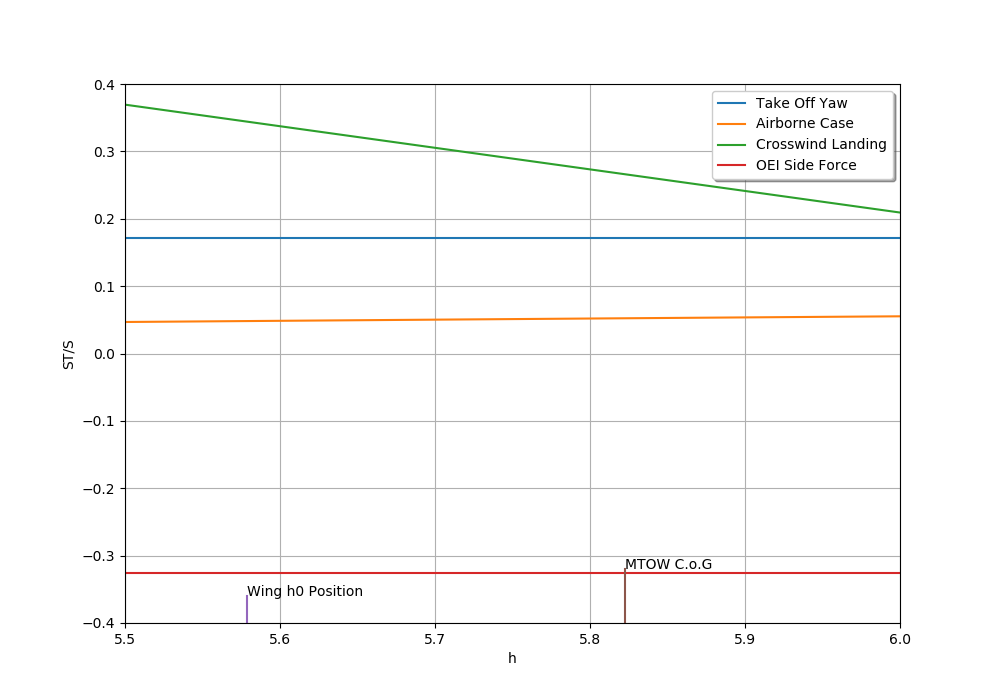
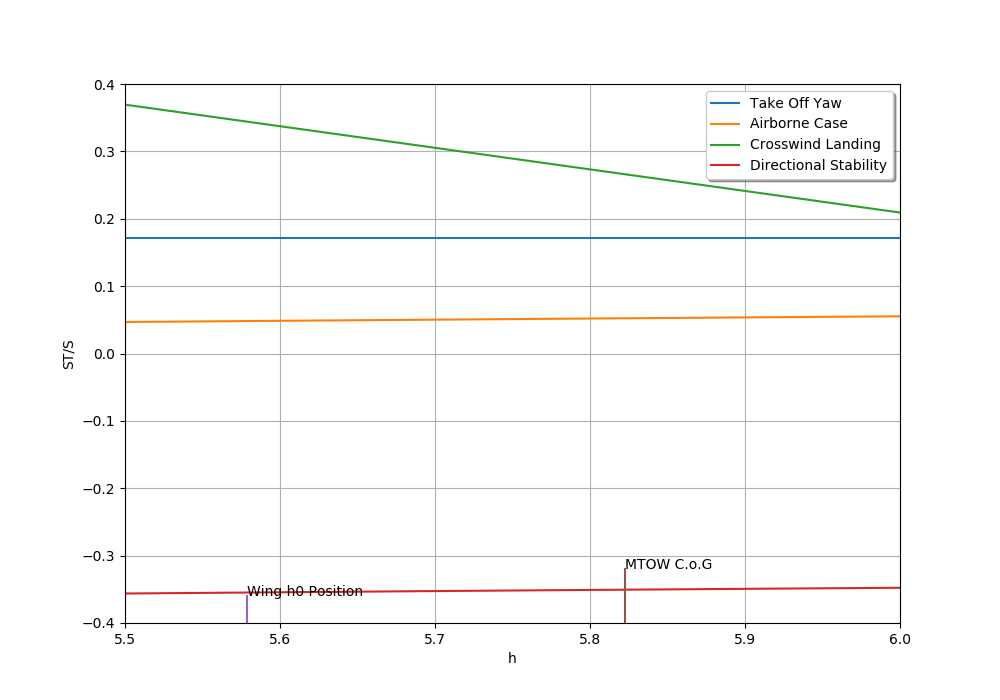
Add directional stability fin sizing first attempt

diff --git a/finSizing.py b/finSizing.py
@@ -131,6 +131,13 @@ def crosswind_landing(h):
     lhs_bottom = (dcyV_dr * Kr_cw * dr_cw * lvtp/c_bar) + (beta * dcyV_db * lvtp/c_bar)
     return lhs_top/lhs_bottom
 
+def directional_stability(h):
+    lvtp = (((params['FinTrailPointRoot'] - (0.5 * params['Fincr'])) / c_bar) - h0) * c_bar
+    cnb = 1.25
+    lhs_top = cnb + (dcyWBN_db * h0-h) - dcnWBN_db
+    lhs_bottom = -dcyV_db * ((lvtp/c_bar) - (h0-h))
+    return lhs_top/lhs_bottom
+
 
 def plotit(r1, r2):
     # Create Range of h values
@@ -156,9 +163,10 @@ def plotit(r1, r2):
     y_tails.append(min(crosswind_landing(x_h)))
     y_heads.append(max(crosswind_landing(x_h)))
 
-    plt.plot([r1, r2], [oei_sideforce(), oei_sideforce()], label='OEI Side Force')
-    y_tails.append(oei_sideforce())
-    y_heads.append(oei_sideforce())
+    plt.plot(x_h, directional_stability(x_h), label='Directional Stability')
+    y_tails.append(min(directional_stability(x_h)))
+    y_heads.append(max(directional_stability(x_h)))
+
 
     """This section constrains the graph correctly"""
     max_y = myceil(max(y_heads), step)
